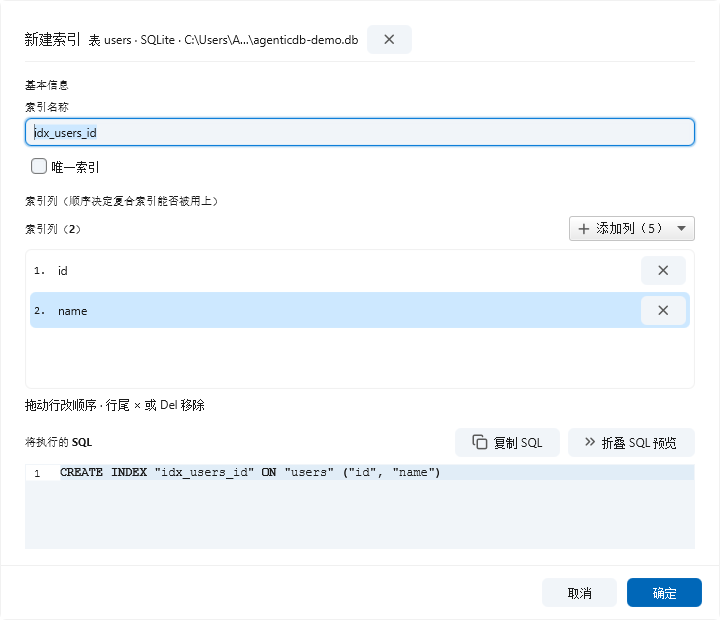
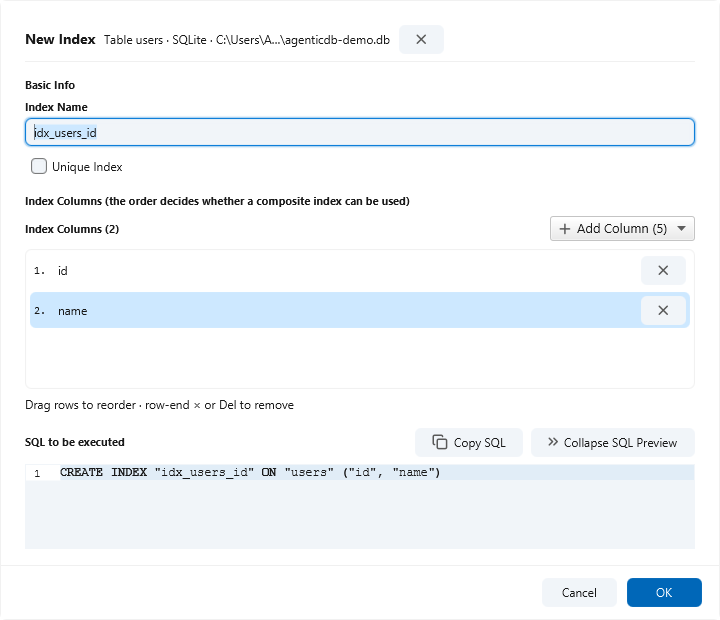
feat(ui): R34 N1-b 第十五批 —— 索引弹窗抽干净（41 → 0），棘轮 479 → 438
- IndexDialog 41 条 CJK 字面量全部入资源包（新增 29 键 idx.*，复用 5 键双侧全等：
  structure.index.add / common.ok / common.cancel / tab.close / newtable.sql.copy）；
  资源包 1130 → 1159 键
- ⭐ 又一处「值字符串当状态」：方向下拉 `bound.setDescending("降序".equals(newValue))`
  翻译后必然失配 —— 改为构造期取好的 descendingValue 常量比对
  （第十三批 endsWith 教训的同类，扫描已纳入每批流程）
- 计数类文案（索引列（N）/ 添加列（N））改 {0} 占位键；快捷键提示走
  idx.pick.hint / idx.direction.tooltip / idx.remove.tooltip 传 Shortcuts.of()
- IndexDialogTest 12 处断言重钉（含 buttonData 按 common.ok/common.cancel 文本查按钮）；
  I18nAuditTest 棘轮 479 → 438
- 验收：全量 150 组 / 1180 条 / 0 失败 / 0 错误 / 134 类持平；p7-new-index 亮/暗两帧
  重拍去重通过、逐张目视全英（New Index / Basic Info / Index Columns (2) /
  Add Column (5) / Drag rows to reorder · row-end × or Del to remove /
  SQL to be executed / Copy SQL / Collapse SQL Preview / Cancel / OK）

push 仍未授权。

diff --git a/ui/adb-ui-shell/src/main/java/io/agenticdb/ui/shell/IndexDialog.java b/ui/adb-ui-shell/src/main/java/io/agenticdb/ui/shell/IndexDialog.java
@@ -4,6 +4,7 @@ import io.agenticdb.introspect.IndexDef;
 import io.agenticdb.introspect.StructureSqlBuilder;
 import io.agenticdb.introspect.TableStructure;
 import io.agenticdb.jdbc.DbSession;
+import io.agenticdb.ui.I18n;
 import io.agenticdb.ui.Icons;
 import javafx.collections.FXCollections;
 import javafx.collections.ListChangeListener;
@@ -111,7 +112,7 @@ final class IndexDialog {
 
     private final TextField name = new TextField();
     private final ComboBox<String> type = new ComboBox<>();
-    private final CheckBox unique = new CheckBox("唯一索引");
+    private final CheckBox unique = new CheckBox(I18n.t("idx.unique"));
     private final Label error = new Label();
     private final Label chosenHeader = new Label();
     private final SqlEditor preview = new SqlEditor();
@@ -122,8 +123,9 @@ final class IndexDialog {
     private final MenuButton add = new MenuButton();
     /** 拖拽中的行下标；{@code -1} = 没有在本列表内拖（拖放只接受自己人）。 */
     private int dragFrom = -1;
-    private final Button copySql = IconButtons.of(Icons.Icon.COPY, "复制 SQL");
-    private final Button collapseSql = IconButtons.of(Icons.Icon.CHEVRON_RIGHT, "折叠 SQL 预览");
+    private final Button copySql = IconButtons.of(Icons.Icon.COPY, I18n.t("newtable.sql.copy"));
+    private final Button collapseSql = IconButtons.of(Icons.Icon.CHEVRON_RIGHT,
+            I18n.t("idx.sql.collapse"));
     private final Region sqlGap = new Region();
     private final VBox picker = new VBox(8);
     private boolean sqlVisible = true;
@@ -163,7 +165,7 @@ final class IndexDialog {
     // ─────────────────────────── 界面 ───────────────────────────
 
     private void buildUi() {
-        dialog.setTitle("新建索引");
+        dialog.setTitle(I18n.t("structure.index.add"));
         // ⭐ V-11：宽度走档位规范。U21 之前它是 PICKER=800 —— 那一档是为「两个列表并排
         //    + 中间四颗按钮」开的；单列表之后 720 就放得下「序号 + 列名 + 方向 + ×」，
         //    再宽只是让 SQL 预览两侧留白。
@@ -180,7 +182,7 @@ final class IndexDialog {
         dialog.setResizable(true);
 
         name.setId("index-dialog-name");
-        name.setPromptText("索引名");
+        name.setPromptText(I18n.t("idx.name.prompt"));
         name.textProperty().addListener((observable, oldValue, newValue) -> refreshPreview());
 
         unique.setId("index-dialog-unique");
@@ -202,8 +204,8 @@ final class IndexDialog {
         VBox.setVgrow(picker, Priority.ALWAYS);
         dialog.getDialogPane().setContent(body);
 
-        ButtonType ok = new ButtonType("确定", ButtonBar.ButtonData.OK_DONE);
-        ButtonType cancel = new ButtonType("取消", ButtonBar.ButtonData.CANCEL_CLOSE);
+        ButtonType ok = new ButtonType(I18n.t("common.ok"), ButtonBar.ButtonData.OK_DONE);
+        ButtonType cancel = new ButtonType(I18n.t("common.cancel"), ButtonBar.ButtonData.CANCEL_CLOSE);
         dialog.getDialogPane().getButtonTypes().setAll(ok, cancel);
         // ⭐ 校验不过就吞掉这次关闭 —— 否则用户点确定什么也没发生，还以为卡了。
         dialog.getDialogPane().lookupButton(ok).addEventFilter(ActionEvent.ACTION, event -> {
@@ -218,14 +220,14 @@ final class IndexDialog {
 
     /** A 区标题栏：新建索引 + 真实的表 / 库 / 方言 + 关闭。 */
     private HBox buildHeader() {
-        Label title = new Label("新建索引");
+        Label title = new Label(I18n.t("structure.index.add"));
         title.getStyleClass().add("adb-dialog__title");
         // ⭐ 表名 / 库名 / 方言全部来自真实上下文，不写死示例（§6.2 A）。
         //    会话标签本身就是「方言 · 库」（见 JdbcSession.of），再补一遍方言就成了
         //    「SQLite · 文件 · SQLite」—— 实测截图里就是这么重复的。
-        Label context = DialogStyles.contextLabel("表 " + (table == null ? "?" : table.name())
-                + " · " + session.label());
-        Button close = IconButtons.icon(Icons.Icon.CLOSE, "关闭");
+        Label context = DialogStyles.contextLabel(I18n.t("idx.context",
+                table == null ? "?" : table.name(), session.label()));
+        Button close = IconButtons.icon(Icons.Icon.CLOSE, I18n.t("tab.close"));
         close.setId("index-dialog-close");
         close.getStyleClass().addAll("adb-icon-button", "adb-dialog__close");
         close.setOnAction(event -> close());
@@ -238,7 +240,7 @@ final class IndexDialog {
 
     /** B 区基本信息：名称 +（方言支持时的）类型 + 唯一索引。 */
     private VBox buildBasicSection() {
-        VBox nameBox = labelledField("索引名称", name);
+        VBox nameBox = labelledField(I18n.t("idx.field.name"), name);
         name.setMaxWidth(Double.MAX_VALUE);
         HBox.setHgrow(nameBox, Priority.ALWAYS);
         HBox row;
@@ -246,11 +248,11 @@ final class IndexDialog {
             row = new HBox(nameBox);
         } else {
             buildTypeChooser();
-            VBox typeBox = labelledField("索引类型", type);
+            VBox typeBox = labelledField(I18n.t("idx.field.type"), type);
             typeBox.setPrefWidth(200);
             row = new HBox(12, nameBox, typeBox);
         }
-        return section("基本信息", row, unique);
+        return section(I18n.t("idx.section.basic"), row, unique);
     }
 
     /**
@@ -261,10 +263,10 @@ final class IndexDialog {
     private void buildTypeChooser() {
         type.setId("index-dialog-type");
         type.getItems().setAll(indexTypes);
-        type.setPromptText("默认");
+        type.setPromptText(I18n.t("idx.type.prompt"));
         type.setMaxWidth(Double.MAX_VALUE);
-        type.setTooltip(new Tooltip("不选则用 " + session.dialect().displayName()
-                + " 的默认索引类型"));
+        type.setTooltip(new Tooltip(I18n.t("idx.type.tooltip",
+                session.dialect().displayName())));
         type.valueProperty().addListener((observable, oldValue, newValue) -> refreshPreview());
     }
 
@@ -272,8 +274,8 @@ final class IndexDialog {
     private VBox buildPickerSection() {
         buildPicker();
         chosenHeader.getStyleClass().add("adb-dialog__section-title");
-        Label hint = new Label("拖动行改顺序 · 行尾 × 或 "
-                + io.agenticdb.ui.Shortcuts.of("Delete") + " 移除");
+        Label hint = new Label(I18n.t("idx.pick.hint",
+                io.agenticdb.ui.Shortcuts.of("Delete")));
         hint.getStyleClass().add("adb-muted");
         Region headGap = new Region();
         HBox.setHgrow(headGap, Priority.ALWAYS);
@@ -284,7 +286,7 @@ final class IndexDialog {
         chosenList.setMinHeight(140);
         // 220 → 200：给 D 区（SQL 预览）留出一行半以上的余量，见 buildUi 的高度注释。
         picker.setPrefHeight(200);
-        return section("索引列（顺序决定复合索引能否被用上）", picker);
+        return section(I18n.t("idx.section.columns"), picker);
     }
 
     /**
@@ -295,7 +297,7 @@ final class IndexDialog {
         chosenList.setId("index-dialog-chosen");
         chosenList.getSelectionModel().setSelectionMode(SelectionMode.SINGLE);
         chosenList.setPlaceholder(EmptyState.pickerHint(
-                "还没有索引列 —— 点右上角「添加列」选第一列。"));
+                I18n.t("idx.picker.empty")));
         chosenList.setCellFactory(list -> new PickedCell());
         chosenList.setOnKeyPressed(event -> {
             if (event.getCode() == KeyCode.DELETE || event.getCode() == KeyCode.BACK_SPACE) {
@@ -310,7 +312,8 @@ final class IndexDialog {
             }
         });
 
-        IconButtons.labeled(add, Icons.Icon.ADD, "添加列", "从可用列里挑一列加入索引");
+        IconButtons.labeled(add, Icons.Icon.ADD, I18n.t("idx.add.label"),
+                I18n.t("idx.add.tooltip"));
         add.setId("index-dialog-add");
         // 与 U4 同一口径：宁可让窄弹窗里出现滚动，也不把带文字的按钮压成光秃图标。
         add.setMinWidth(Region.USE_PREF_SIZE);
@@ -371,12 +374,12 @@ final class IndexDialog {
                 : table.columns().stream().map(column -> column.name()).toList());
         remaining.removeAll(picked);
         available.setAll(remaining);
-        chosenHeader.setText("索引列（" + chosen.size() + "）");
+        chosenHeader.setText(I18n.t("idx.chosen.header", chosen.size()));
         // 计数写在按钮上：可用列不再有独立列表，这一颗下拉就是它唯一的入口和证据。
-        add.setText("添加列（" + remaining.size() + "）");
+        add.setText(I18n.t("idx.add.count", remaining.size()));
         add.setDisable(remaining.isEmpty());
         String hint = remaining.isEmpty()
-                ? "所有列都已加入索引" : "从可用列里挑一列加入索引";
+                ? I18n.t("idx.add.allPicked") : I18n.t("idx.add.tooltip");
         add.setTooltip(new Tooltip(hint));
         add.setAccessibleText(hint);
         List<MenuItem> items = new ArrayList<>();
@@ -390,7 +393,7 @@ final class IndexDialog {
 
     /** D 区：SQL 预览（等宽、行号、可折叠），与真正执行的那条同源。 */
     private VBox buildSqlSection() {
-        Label title = new Label("将执行的 SQL");
+        Label title = new Label(I18n.t("idx.sql.title"));
         title.getStyleClass().add("adb-dialog__section-title");
         sqlGap.setMinWidth(Region.USE_PREF_SIZE);
         HBox header = new HBox(8, title, sqlGap, copySql, collapseSql);
@@ -403,7 +406,7 @@ final class IndexDialog {
         preview.setId("index-dialog-sql");
         // ⭐ 预览是只读的、也**不能执行**：SqlEditor 默认那句「⌘↵ 执行当前语句」
         //    在这儿是误导（用户会去敲键盘，然后什么都没发生）。
-        preview.setHint("填好名称并选择列后，这里显示将要执行的语句");
+        preview.setHint(I18n.t("idx.sql.hint"));
         preview.setPrefHeight(96);
         // ⭐ 预览是 D 区，不是一条装订线：不给最小高度，VBox 在高度紧张时
         //    会把它压到只剩一行（560px 窗口下实测 16px），用户看不到完整语句。
@@ -417,7 +420,7 @@ final class IndexDialog {
         preview.setManaged(visible);
         collapseSql.setGraphic(Icons.of(visible
                 ? Icons.Icon.CHEVRON_RIGHT : Icons.Icon.CHEVRON_LEFT));
-        collapseSql.setText(visible ? "折叠 SQL 预览" : "展开 SQL 预览");
+        collapseSql.setText(visible ? I18n.t("idx.sql.collapse") : I18n.t("idx.sql.expand"));
     }
 
     private void copyPreview() {
@@ -454,18 +457,18 @@ final class IndexDialog {
     String problem() {
         String raw = name.getText() == null ? "" : name.getText().trim();
         if (raw.isEmpty()) {
-            return "请填索引名";
+            return I18n.t("idx.error.noName");
         }
         if (!raw.matches("[A-Za-z_][A-Za-z0-9_$]*")) {
-            return "索引名只能包含字母、数字、下划线或 $，且不能以数字开头";
+            return I18n.t("idx.error.badName");
         }
         for (String existing : existingIndexNames) {
             if (existing.equalsIgnoreCase(raw)) {
-                return "已经有一个叫「" + raw + "」的索引了";
+                return I18n.t("idx.error.duplicate", raw);
             }
         }
         if (chosen.isEmpty()) {
-            return "请至少选择一列";
+            return I18n.t("idx.error.noColumns");
         }
         return null;
     }
@@ -521,19 +524,21 @@ final class IndexDialog {
             cells.add(order);
             cells.add(column);
             if (directionSupported) {
-                ComboBox<String> box =
-                        new ComboBox<>(FXCollections.observableArrayList("升序", "降序"));
+                // ⭐ 比较用同一个取好的值，不再 "降序".equals —— 翻译后字面量必然失配。
+                String descendingValue = I18n.t("idx.direction.desc");
+                ComboBox<String> box = new ComboBox<>(FXCollections.observableArrayList(
+                        I18n.t("idx.direction.asc"), descendingValue));
                 box.setPrefWidth(76);
-                box.setTooltip(new Tooltip("该列在索引里的排序方向（"
-                        + io.agenticdb.ui.Shortcuts.of("Alt+UP") + " / "
-                        + io.agenticdb.ui.Shortcuts.of("Alt+DOWN") + " 调整列的顺序）"));
+                box.setTooltip(new Tooltip(I18n.t("idx.direction.tooltip",
+                        io.agenticdb.ui.Shortcuts.of("Alt+UP"),
+                        io.agenticdb.ui.Shortcuts.of("Alt+DOWN"))));
                 // 用值变化而不是 onAction：方向是这一列的**状态**，不是一次动作，
                 // 而且程序化选择（默认值回填、单测）也要走同一条路。
                 box.valueProperty().addListener((observable, oldValue, newValue) -> {
                     if (bound == null) {
                         return;
                     }
-                    bound.setDescending("降序".equals(newValue));
+                    bound.setDescending(descendingValue.equals(newValue));
                     refreshPreview();
                 });
                 direction = box;
@@ -542,7 +547,7 @@ final class IndexDialog {
                 direction = null;
             }
             remove = IconButtons.icon(Icons.Icon.CLOSE,
-                    "移出索引（" + io.agenticdb.ui.Shortcuts.of("Delete") + "）");
+                    I18n.t("idx.remove.tooltip", io.agenticdb.ui.Shortcuts.of("Delete")));
             remove.getStyleClass().add("adb-icon-button");
             remove.setMinWidth(Region.USE_PREF_SIZE);
             remove.setCursor(Cursor.HAND);

diff --git a/ui/adb-ui-shell/src/test/java/io/agenticdb/ui/shell/IndexDialogTest.java b/ui/adb-ui-shell/src/test/java/io/agenticdb/ui/shell/IndexDialogTest.java
@@ -5,6 +5,7 @@ import io.agenticdb.introspect.TableStructure;
 import io.agenticdb.jdbc.DialectKind;
 import io.agenticdb.model.ColumnDef;
 import io.agenticdb.model.ColumnType;
+import io.agenticdb.ui.I18n;
 import javafx.application.Platform;
 
 import javafx.scene.Node;
@@ -78,22 +79,24 @@ class IndexDialogTest {
         IndexDialog dialog = mounted(FakeDbSession.of(DialectKind.SQLITE), table(List.of()));
 
         assertThat(text(dialog, ".adb-dialog__context")).contains("users").contains("SQLite");
-        assertThat(text(dialog, ".adb-dialog__title")).isEqualTo("新建索引");
+        assertThat(text(dialog, ".adb-dialog__title")).isEqualTo(I18n.t("structure.index.add"));
     }
 
     @Test
     @DisplayName("计数来自真实列表：加一列，「添加列」减一、「索引列」加一")
     void listCountsComeFromTheRealData() {
         IndexDialog dialog = mounted(FakeDbSession.of(DialectKind.SQLITE), table(List.of()));
-        assertThat(dialog.addButton().getText()).isEqualTo("添加列（4）");
-        assertThat(dialog.chosenHeader().getText()).isEqualTo("索引列（0）");
+        assertThat(dialog.addButton().getText())
+                .isEqualTo(I18n.t("idx.add.count", 4));
+        assertThat(dialog.chosenHeader().getText())
+                .isEqualTo(I18n.t("idx.chosen.header", 0));
         // 下拉里就是可用列本身 —— 少了「可用列」列表，可选的东西必须在这一颗按钮里。
         assertThat(itemTexts(dialog)).containsExactly("id", "email", "first", "last");
 
         addColumn(dialog, "email");
 
-        assertThat(dialog.addButton().getText()).isEqualTo("添加列（3）");
-        assertThat(dialog.chosenHeader().getText()).isEqualTo("索引列（1）");
+        assertThat(dialog.addButton().getText()).isEqualTo(I18n.t("idx.add.count", 3));
+        assertThat(dialog.chosenHeader().getText()).isEqualTo(I18n.t("idx.chosen.header", 1));
         assertThat(itemTexts(dialog)).containsExactly("id", "first", "last");
     }
 
@@ -112,7 +115,7 @@ class IndexDialogTest {
 
         assertThat(dialog.availableColumns()).isEmpty();
         assertThat(dialog.addButton().isDisabled()).as("4 列全进索引 → 下拉里没有东西可选").isTrue();
-        assertThat(dialog.addButton().getText()).isEqualTo("添加列（0）");
+        assertThat(dialog.addButton().getText()).isEqualTo(I18n.t("idx.add.count", 0));
     }
 
     @Test
@@ -264,13 +267,13 @@ class IndexDialogTest {
         onFxRun(() -> dialog.nameField().setText("idx_email"));
         addColumn(dialog, "email");
 
-        assertThat(dialog.problem()).contains("已经有一个叫「idx_email」的索引");
+        assertThat(dialog.problem()).contains(I18n.t("idx.error.duplicate", "idx_email"));
 
         onFxRun(() -> dialog.nameField().setText("2bad"));
-        assertThat(dialog.problem()).contains("不能以数字开头");
+        assertThat(dialog.problem()).contains(I18n.t("idx.error.badName"));
 
         onFxRun(() -> dialog.nameField().setText(""));
-        assertThat(dialog.problem()).isEqualTo("请填索引名");
+        assertThat(dialog.problem()).isEqualTo(I18n.t("idx.error.noName"));
     }
 
     @Test
@@ -280,8 +283,8 @@ class IndexDialogTest {
         DialogPane pane = dialog.dialogPane();
 
         assertThat(pane.getButtonTypes()).hasSize(2);
-        assertThat(buttonData(pane, "确定").isDefaultButton()).isTrue();
-        assertThat(buttonData(pane, "取消").isCancelButton()).isTrue();
+        assertThat(buttonData(pane, I18n.t("common.ok")).isDefaultButton()).isTrue();
+        assertThat(buttonData(pane, I18n.t("common.cancel")).isCancelButton()).isTrue();
     }
 
     @Test
@@ -305,7 +308,7 @@ class IndexDialogTest {
                 .as("加的是这张表真实的前两列，不是写死的示例列名")
                 .containsExactly("id", "email");
         assertThat(dialog.availableColumns()).containsExactly("first", "last");
-        assertThat(dialog.addButton().getText()).isEqualTo("添加列（2）");
+        assertThat(dialog.addButton().getText()).isEqualTo(I18n.t("idx.add.count", 2));
         assertThat(dialog.previewText())
                 .isEqualTo("CREATE INDEX \"idx_users_id\" ON \"users\" (\"id\", \"email\")");
         // 摆完得是「点得动确定」的态 —— 否则这一帧拍的还是空弹窗。

diff --git a/ui/adb-ui-shell/src/test/java/io/agenticdb/ui/shell/I18nAuditTest.java b/ui/adb-ui-shell/src/test/java/io/agenticdb/ui/shell/I18nAuditTest.java
@@ -73,7 +73,7 @@ class I18nAuditTest {
      * 而本类是先 {@code stripComments} 再计数。口径不同的两个数放在一起，
      * 只会让人以为棘轮又涨了。
      */
-    private static final int CJK_CEILING = 479;
+    private static final int CJK_CEILING = 438;
 
     /**
      * ⭐ R34 N1-b 第七批补的第三把尺：<b>模型层</b>（core / workbench）的汉字字面量。
